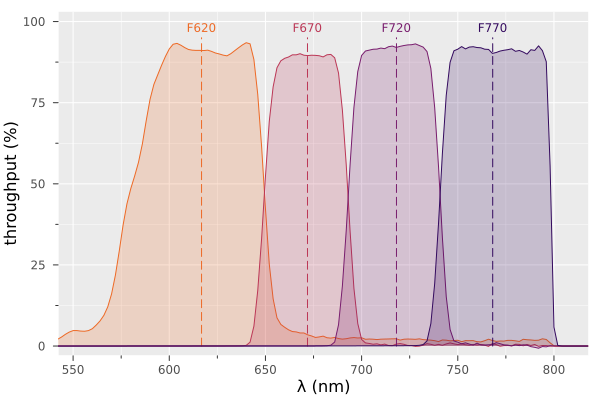
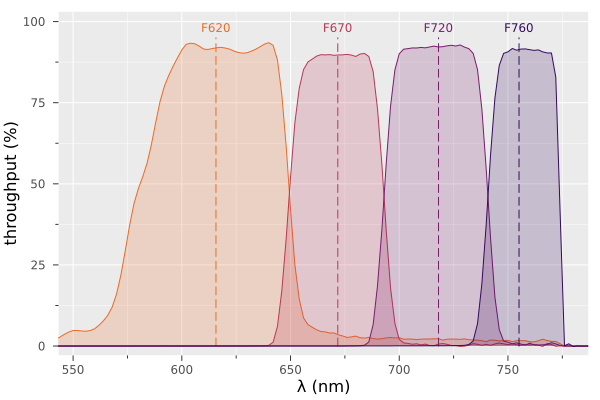
update filter curves

diff --git a/030openuse.web/040vampires.web/content.html b/030openuse.web/040vampires.web/content.html
@@ -108,7 +108,7 @@ in addition to a new multi-band imaging (MBI) mode.</p>
       <td>F720</td><td>719</td><td>48</td><td>688 - 746</td><td></td>
     </tr>
     <tr>
-      <td>F770</td><td>769</td><td>57</td><td>738 - 798</td><td>Overlaps with PyWFS dichroic</td>
+      <td>F760</td><td>755</td><td>32</td><td>736 - 774</td><td>Overlaps with PyWFS dichroic</td>
     </tr>
   </tbody>
 </table>
@@ -207,7 +207,7 @@ in addition to a new multi-band imaging (MBI) mode.</p>
       <td>775-50</td><td>763</td><td>26</td><td>748 - 778</td><td></td><td></td>
     </tr>
     <tr>
-      <td>Open</td><td>677</td><td>194</td><td>550 - 776</td><td></td><td>Constrained by AO188 dichroic and PyWFS dichroic.</td>
+      <td>Open</td><td>677</td><td>198</td><td>550 - 776</td><td></td><td>Constrained by AO188 dichroic and PyWFS dichroic.</td>
     </tr>
   </tbody>
 </table>
